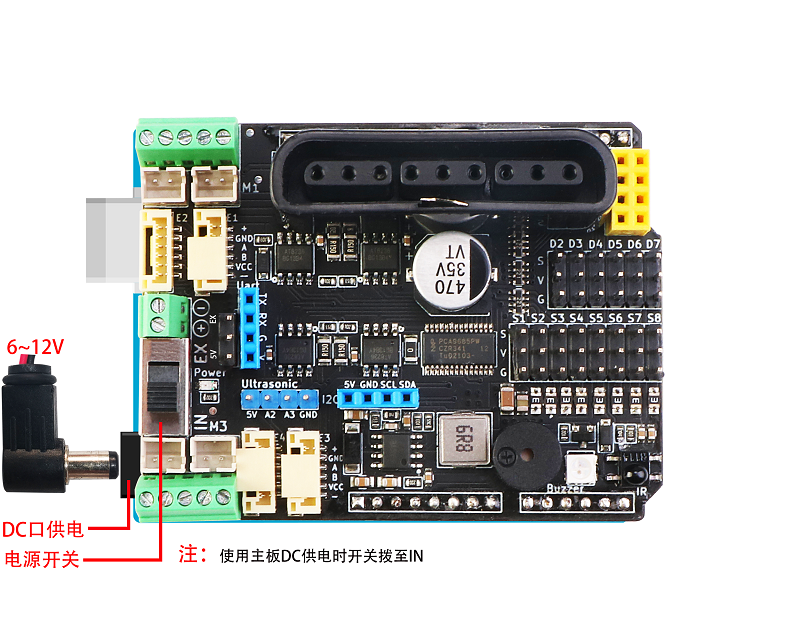
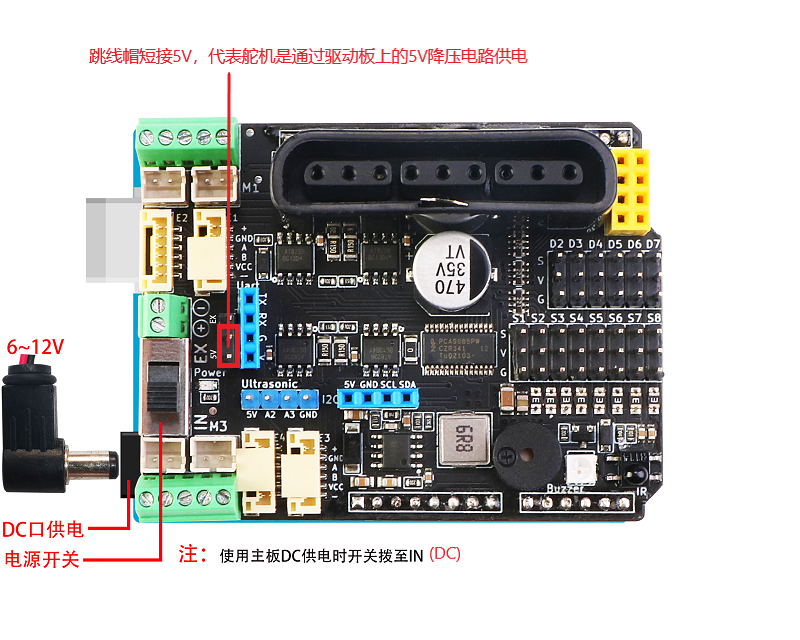
Fix power supply error, add FAQ

Changed region(s): [[0.0938, 0.0625, 0.6562, 0.5938], [0.5312, 0.8438, 0.5625, 0.875]]

diff --git a/README_zh.md b/README_zh.md
@@ -1,16 +1,18 @@
 
 
-# MotorDriverBoard
+# MotorDriverBoard V5.2
 
 [English](README.md) 中文版
 
-MotorDriverBoard是由 [深圳市易创空间科技有限公司](www.emakefun.com)，专门针对Arduino Uno(兼容Mega2560)机器人，电机驱动，多路舵机控制而研发的一款多功能电机驱动扩展板。本驱动板采用I2C方式控制[PCA9685](./doc/pca9685.pdf)(16路PWM输出芯片)。所以本驱动板电机或者舵机和arduino主板IO口不存在对应关系，是通过I2C扩展PWM控制，详情请见[驱动板原理图](./doc/MotorDriverBoard_V5.1.pdf)。
+MotorDriverBoard是由 [深圳市易创空间科技有限公司](www.emakefun.com)，专门针对Arduino Uno(兼容Mega2560)机器人，电机驱动，多路舵机控制而研发的一款多功能电机驱动扩展板。本驱动板采用I2C方式控制[PCA9685](./doc/pca9685.pdf)(16路PWM输出芯片)。所以本驱动板电机或者舵机和arduino主板IO口不存在对应关系，是通过I2C扩展PWM控制，详情请见[**驱动板原理图**](./doc/MotorDriverBoard_V5.1.pdf)。
 
-MotorDriverBoard for Arduino  Uno(Arduino Mega2560) 
+**MotorDriverBoard for Arduino  Uno(Arduino Mega2560) **
 
 ![MotorDriverBoard_0](./doc/picture/ZH/MotorDriverBoard_show0.jpg)
 
 ### 快速链接
+
+[**常见问题**](#FAQ)
 
 [arduino ide库文件下载]()
 
@@ -30,7 +32,6 @@ MotorDriverBoard for Arduino  Uno(Arduino Mega2560)
 - 支持4路编码电机
 - 板载无源蜂鸣器
 - 板载1个RGB全彩灯
-- 板载红外接收头
 - 1个 i2c接口 、1个PS2X接口、1个Uart(蓝牙/wifi模块)接口 、1个NRF24L01模块接口
 - 1个超声波模块接口
 - 舵机电源可切换到外部供电
@@ -43,25 +44,44 @@ MotorDriverBoard for Arduino  Uno(Arduino Mega2560)
 ![hardware_introduction](./doc/picture/ZH/hardwareIntroduction.png)
 
 ### 供电说明
-- 通过Uno的DC（6~12）头单一电源供电，舵机供电
 
-  **PS2控制9V以上的电机时，为了确保PS2不断连，建议使用航模电池或者大电流21700锂电池，两节18650供电有压力**
+由于本驱动板为了做到更加灵活，适应不同电机，舵机驱动要求，以及整个板子能够稳定运行
+
+我们设计了如下几种供电方案，**注意驱动板必须通过锂电池或者3A以上的UPS电源供电，不能只Uno主板usb供电或者干电池供电**
+
+
+
+#### 1、只通过Uno的DC（6~12V）头单一电源给Uno主板，驱动板，舵机同时供电。
+
+  应用场景:
+
+  a、**驱动9V以下得直流电机比如TT马达积木电机灯，外加sg90/mg90这种舵机**；
+
+  b、**PS2控制9V~12V的电机时，为了确保PS2不断连，建议使用航模电池或者大电流21700锂电池，两节18650供电不稳定**。
+
+  c、电源切换开关达到**IN(DC)**位置，跳线帽**短接5V位置**
 
 ![MotorDriverBoard_dc_power_supply](./doc/picture/ZH/dc_power_supply.png)
 
-- 接线柱供电单一电源供电，需要焊接背面电阻位
+#### 2、只通过接线柱供单一电源给驱动板，Uno主板和舵机供电。将驱动板的5V电源输出到Uno主板
+
+  适应场景
+
+  a、驱动4路12V以上的电机时比如370电机，520电机，此时舵机为sg90/mg90这种小功率舵机;
+
+  b、供电超过Uno DC头12V电压，所以我们需要用接线柱供电，供电范围6~25V;
+
+  c、电源切换开关打到**EX**，跳线帽短接到**5V位置**，需要短接背面**R24电阻位**。
 
 ![MotorDriverBoard_terminal_power_supply](./doc/picture/ZH/terminal_power_supply.png)
 
-- 舵机采用驱动板载DC-DC电源供电
+#### 3、Uno主板通过DC头供电，舵机通过接线柱独立供电
 
-![MotorDriverBoard_terminal_power_supply](./doc/picture/ZH/dc_dc_servo.png) 
-![MotorDriverBoard_terminal_power_supply](./doc/picture/ZH/back.png)
+  a、外部使用MG995/MG996/DS3235/DS3238等大力矩舵机时，数量超过2个时（需要根据实际情况测试），我们需要给舵机独立供电
 
+  b、舵机供电电压电流根据舵机参数提供
 
-
-
-- 舵机采用外部供电
+  c、电源切换开关达到**IN(DC)**位置，跳线帽**短接EX位置**
 
 ![MotorDriverBoard_terminal_power_supply](./doc/picture/ZH/terminal_power_servo.png)
 
@@ -266,11 +286,38 @@ MsTimer2::start(); 					/*启动定时器2*/
 ### MotorDriverBoard 编程图形块
 #### [mBlock5]()
 
-
-
 ![image]()
 #### 米思齐
 ![image]()
 #### MagicBlock
 ![image]()
 
+## FAQ
+####  Q：驱动板arduino IO对应关系?
+##### A ：本驱动板采用I2C方式控制[PCA9685](./doc/pca9685.pdf)(16路PWM输出芯片)。所以本驱动板电机或者舵机和arduino主板IO口不存在对应关系，是通过I2C扩展PWM控制
+
+####  Q：驱动板改如何接电?
+##### A ：请先判断手里是用什么电源，什么样的电机，还有舵机，然后根据实际情况接电
+
+####  Q：驱动板驱动不了电机?
+##### A ：请先判断驱动板是否有供电，并且开关有打开，只通过usb口供电是驱动不了电机的，另外主板还得烧录对应的驱动程序
+
+####  Q：PS2遥控不了驱动板?
+##### A ：在使用驱动板的时候，如果是新手用户，请一定要一步步来熟悉使用，不要一上来就全部功能一起使用，然后问的问题很大。针对这个问题需要做如下三个测试才行
+a、驱动板是否使用7V以上锂电池供电且正常，板子上灯是否亮
+b、下载直流电机驱动测试程序**确保要上传成功**，电机接线正确，来确定板子驱动正常
+c、测试PS2接收测试程序，来证明PS2遥控器是好的
+d、前面正确后下载PS2控制四驱小车程序，并按按键控制电机
+
+####  Q：驱动板是否有原理图?
+##### A ：有，点击这里[**驱动板原理图**](./doc/MotorDriverBoard_V5.1.pdf)。
+
+####  Q：如何分析并判断驱动板是否损坏?
+
+##### A ：先外观判断是否有芯片烧黑，冒烟，等情况。如果已经很熟练操作此板子，如果程序下载正确，供电也正确，板子就是驱动不了电机，那么有三种情况
+
+1、电源切换开关接触不良，用万用表点一下确定，检测是否有5V电源输出
+
+2、4个直流电机里面其中一部分转，一部分不转，有可能对应的驱动芯片烧坏
+
+3、四个电机，舵机都不转，使用I2C 扫描程序测试，看是否能扫描到PCA968A的I2C地址，如果扫描不到PCA8685损坏
